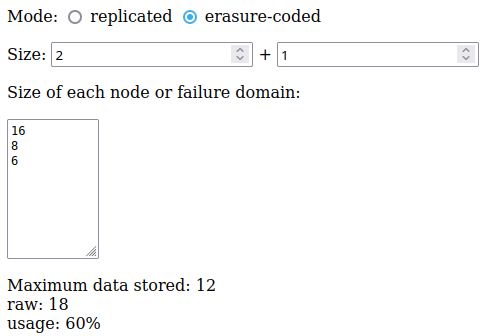
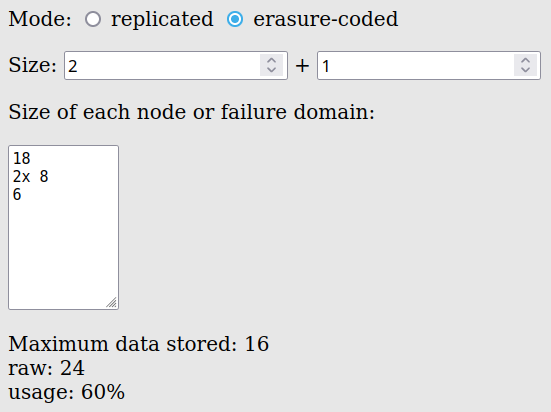
Update example values and screenshot

diff --git a/index.html b/index.html
@@ -25,8 +25,7 @@
       </p>
       <p>Size of each node or failure domain:</p>
       <textarea name="nodes" rows="8" cols="10">18
-8
-8
+2x 8
 6</textarea>
       <p id="results"></p>
     </form>
